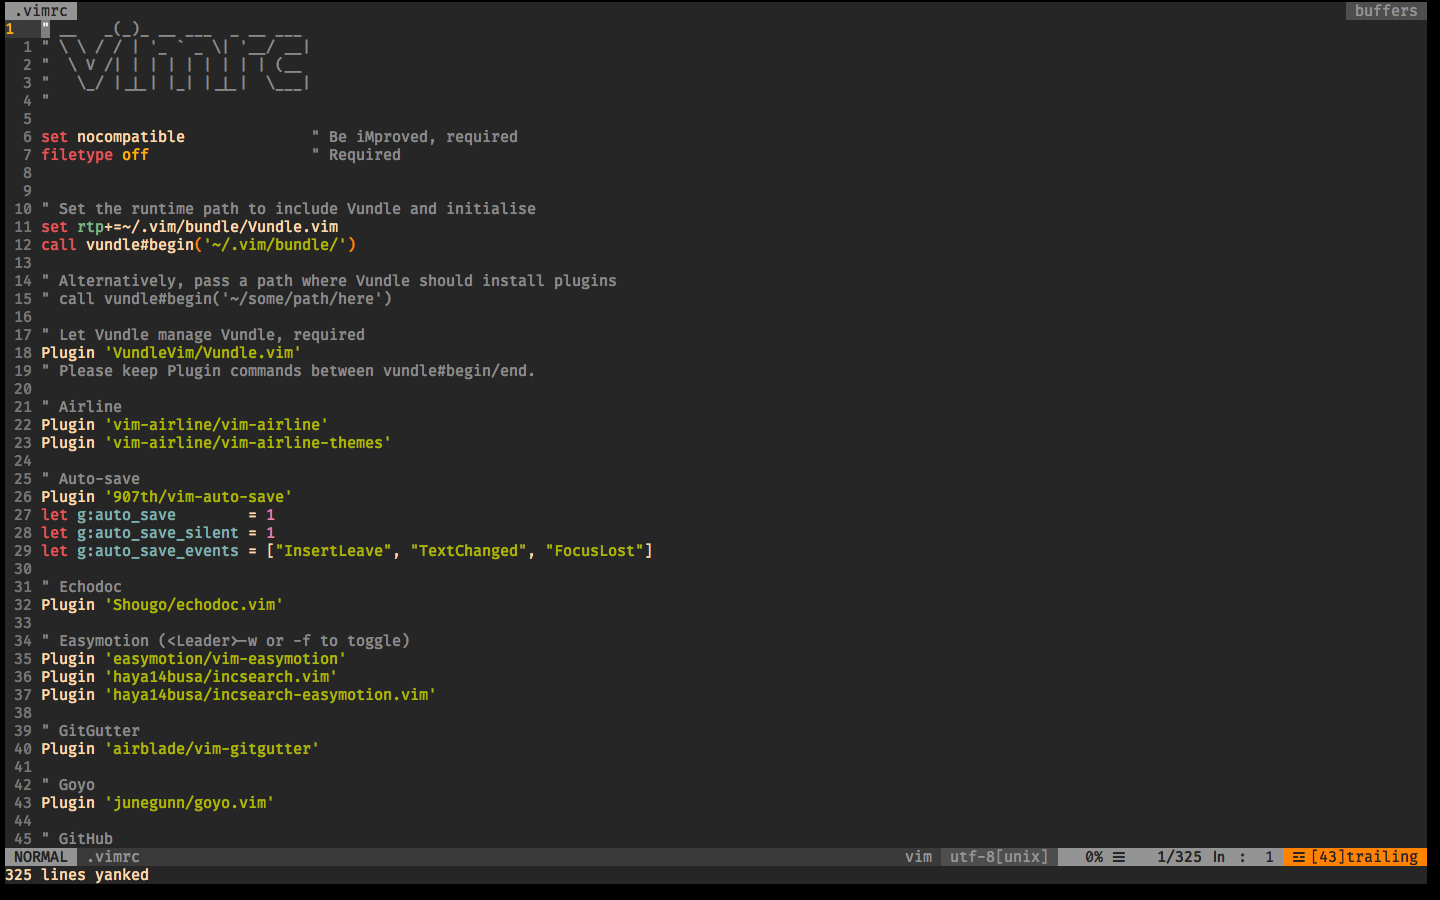
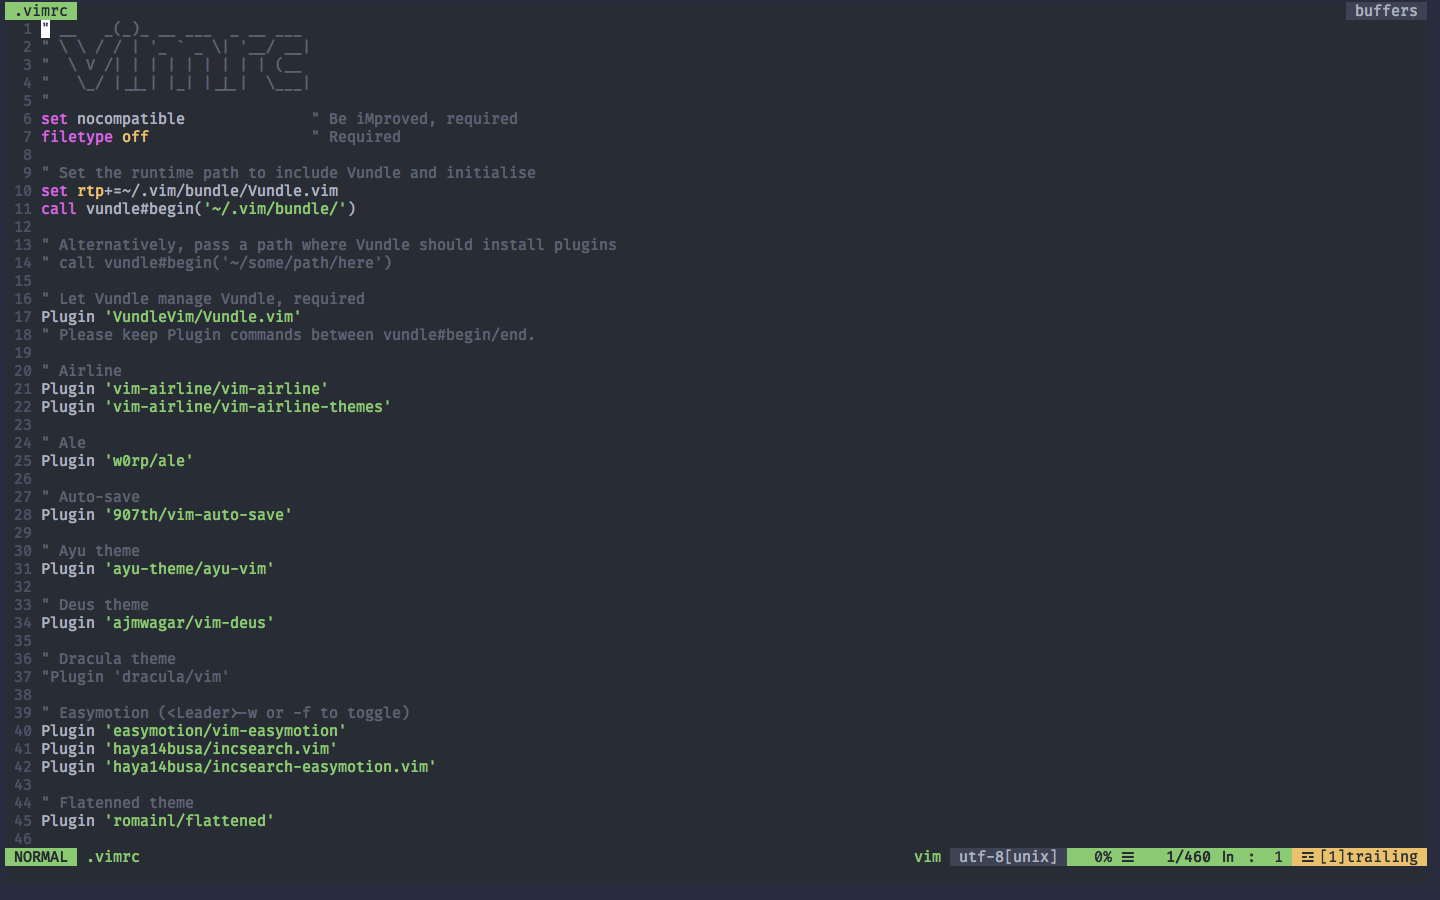
update README

Changed region(s): [[0.0, 0.0, 1.0, 1.0], [0.1562, 0.0311, 0.2188, 0.0933], [0.0938, 0.0622, 0.125, 0.0933]]

diff --git a/README.md b/README.md
@@ -4,7 +4,7 @@ My configuration files and plugins for [Neovim](https://neovim.io/).
 
 ## Set up instructions:
 
-* If you have [homebrew](https://brew.sh/) installed, just type the following line to install Neovim:
+* If you have [homebrew](https://brew.sh/) installed, type the following line to install Neovim:
 ```
 brew install neovim
 ```
@@ -40,7 +40,7 @@ source ~/.vimrc
 nvim .vimrc +PluginInstall +qall
 ```
 
-* I currently use [gruvbox](https://github.com/morhetz/gruvbox), but I have also included some more themes in the `.vimrc` file: [Ayu](https://github.com/ayu-theme/ayu-vim), [Molokai](https://github.com/tomasr/molokai), [Nord](https://github.com/arcticicestudio/nord-vim), and [Palenight](https://github.com/drewtempelmeyer/palenight.vim).
+* I included many themes in the `.vimrc` file, such as [gruvbox](https://github.com/morhetz/gruvbox), [Molokai](https://github.com/tomasr/molokai), [Nord](https://github.com/arcticicestudio/nord-vim), and [Palenight](https://github.com/drewtempelmeyer/palenight.vim). These are my favourites. I have also added the [rainglow](https://github.com/rainglow/vim) plugin, which has 320+ themes for vim.
 
 * I'm using [Fira Code Regular](https://github.com/tonsky/FiraCode) as my main font. You can install it with:
 ```
@@ -48,7 +48,7 @@ brew tap caskroom/fonts
 brew cask install font-fira-code
 ```
 
-And this is how the editor looks like: 
+And this is how the editor looks like with the default configurations: 
 
 ![](https://github.com/danilofreire/vimrc/raw/master/neovim.png)
 
